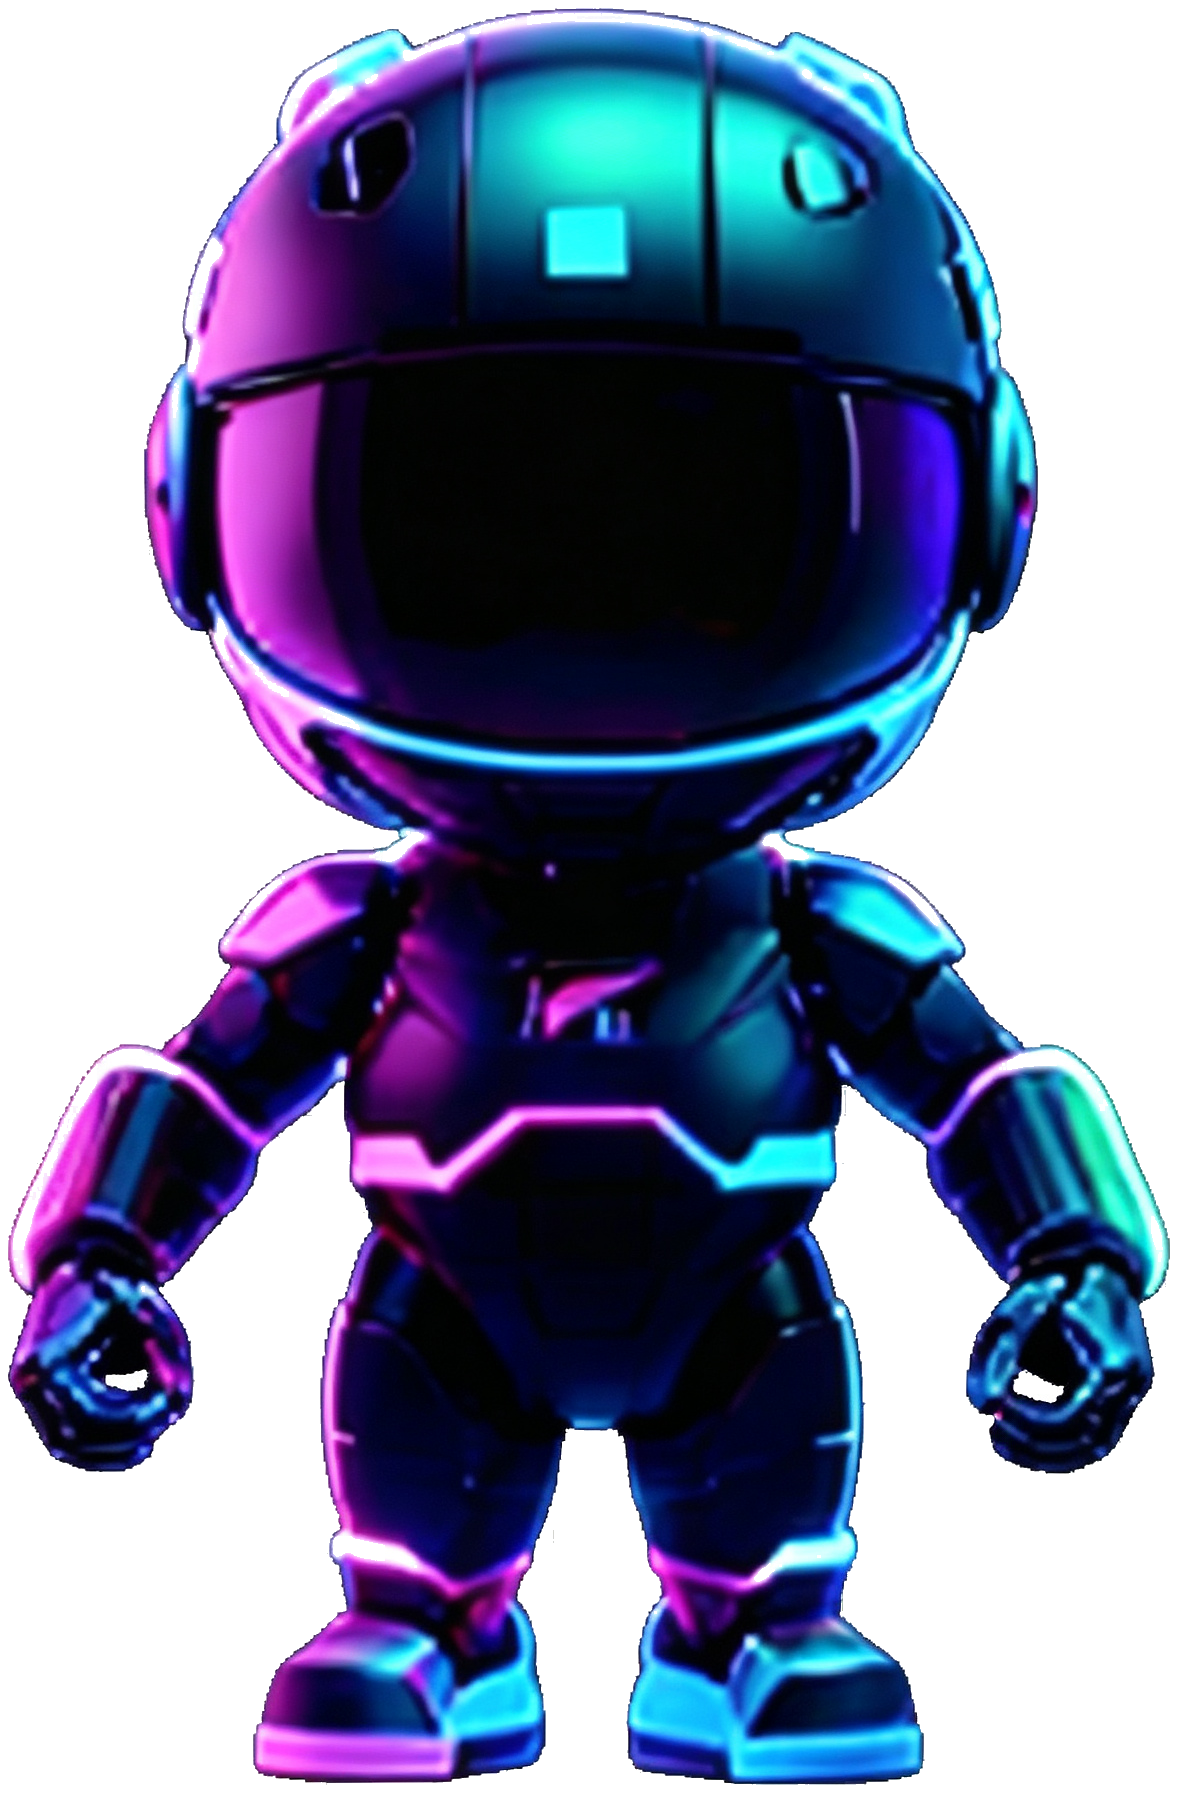
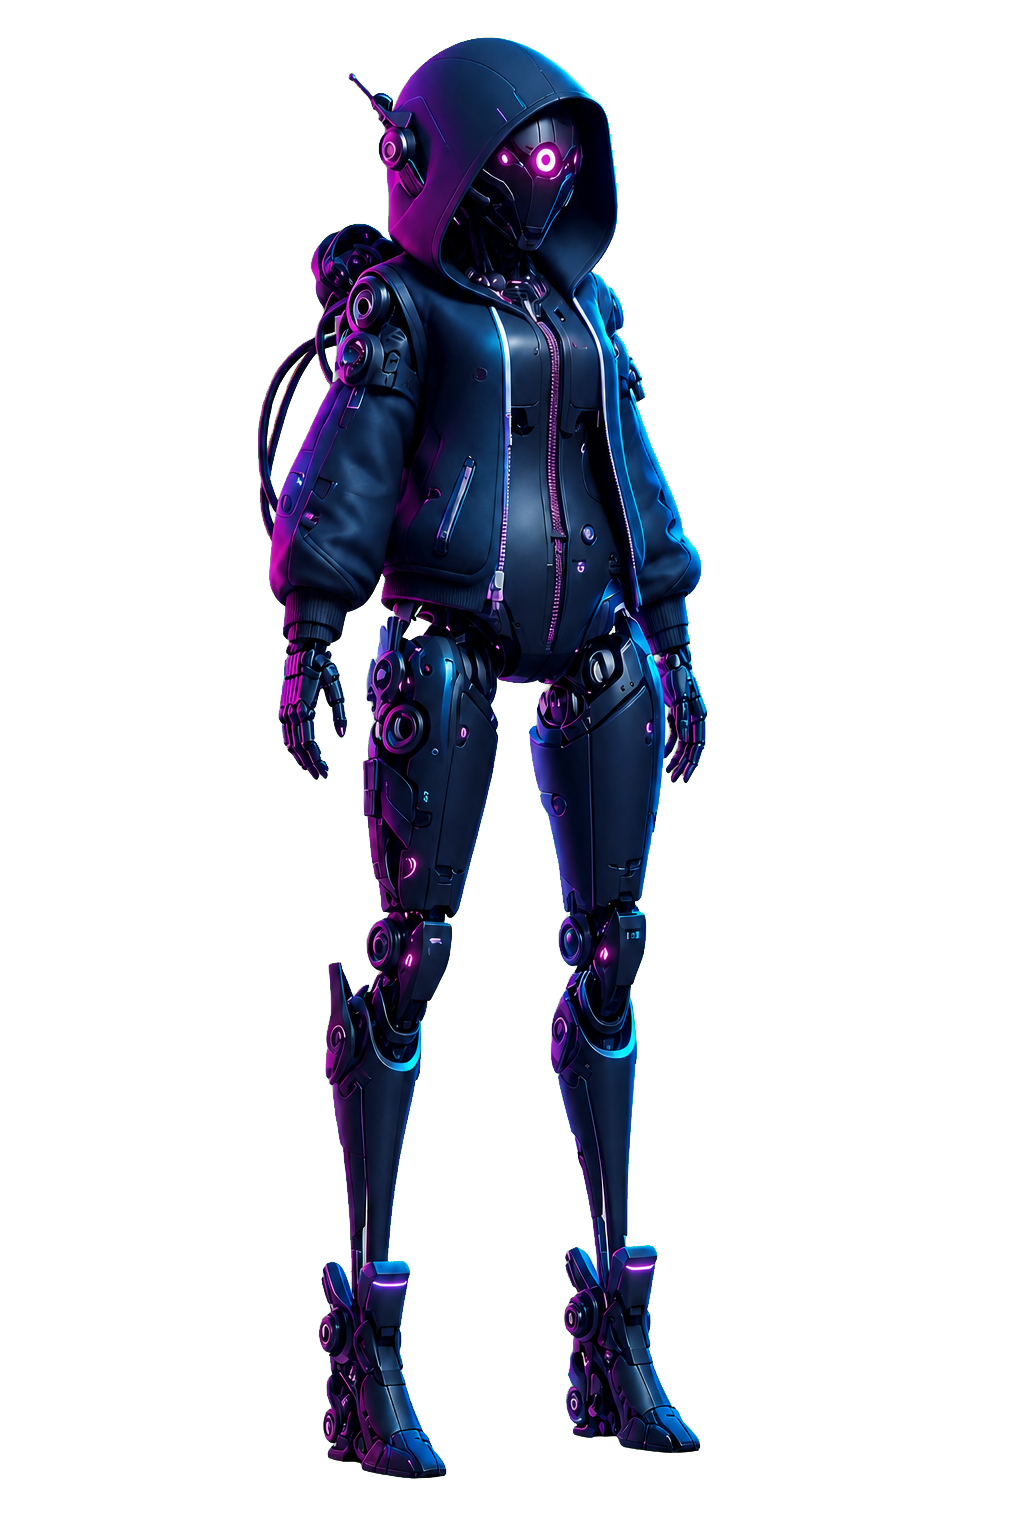
art: replace protagonist with transparent unarmed render

diff --git a/src/main/resources/static/app/index.html b/src/main/resources/static/app/index.html
@@ -1566,7 +1566,7 @@ createApp({
     protagonistArtStyle() {
       var base = (window.APP_CONFIG && window.APP_CONFIG.artBase) || 'art/';
       return {
-        backgroundImage: 'url("' + base + 'char/hero-idle.png")',
+        backgroundImage: 'url("' + base + 'char/hero-idle.png?v=20260809b")',
         backgroundRepeat: 'no-repeat'
       };
     },
